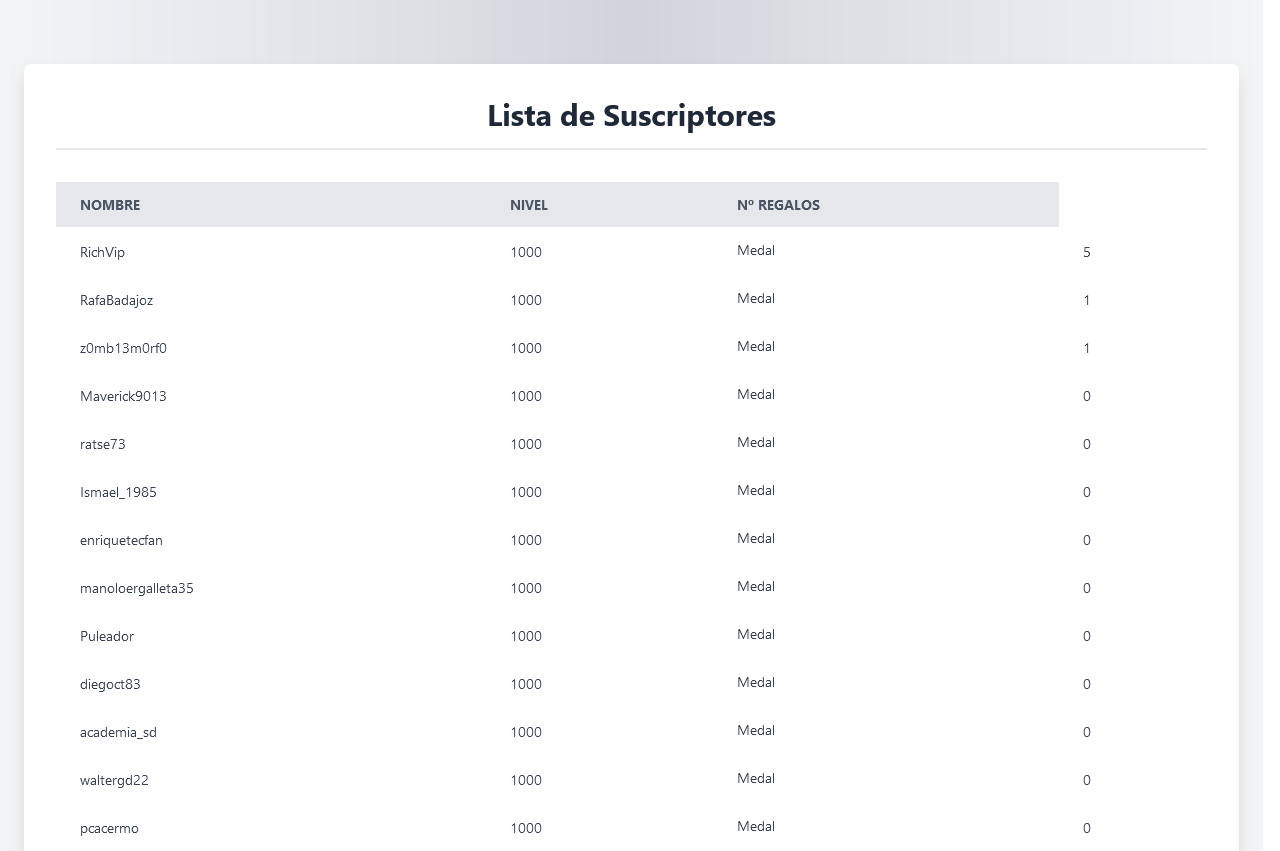
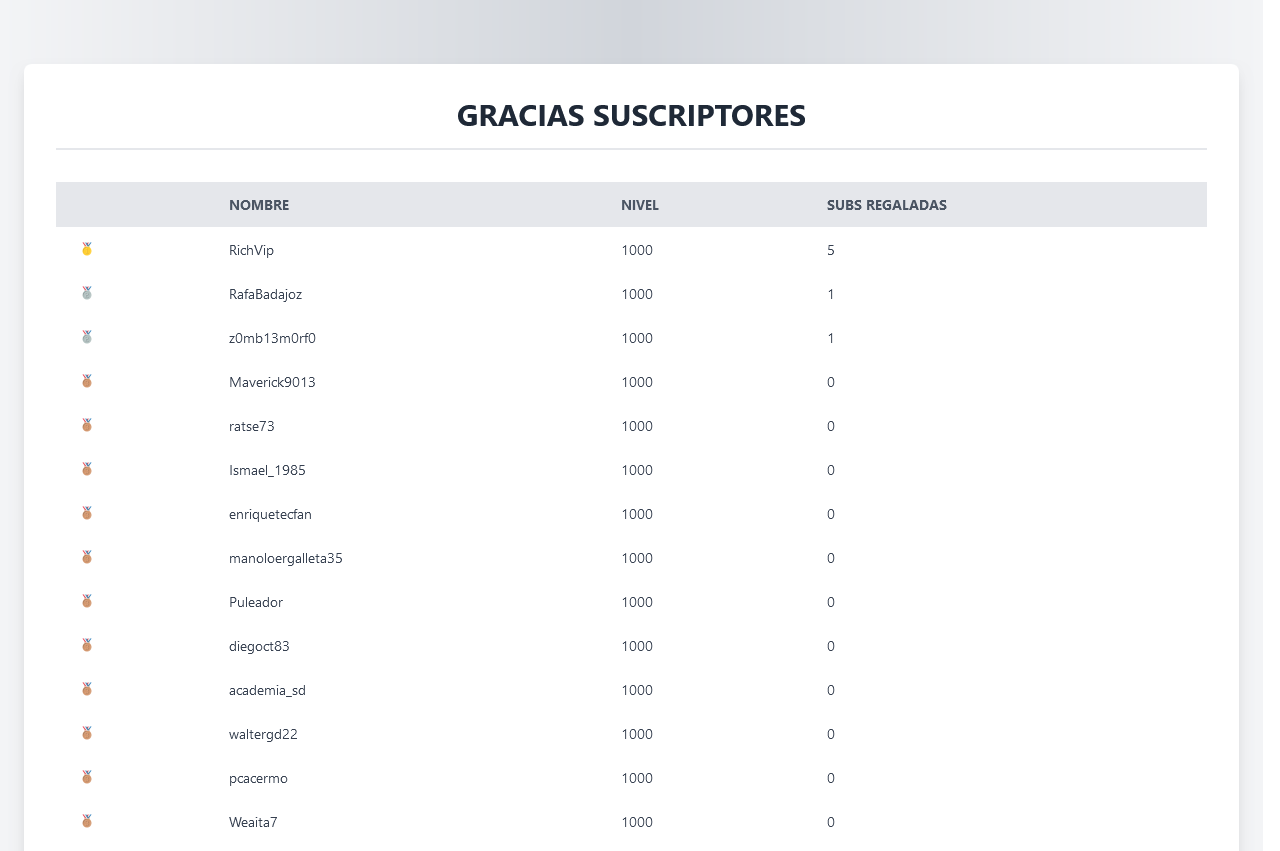
Medallas

diff --git a/index_con_placeholder.html b/index_con_placeholder.html
@@ -6,36 +6,39 @@
     <title>Lista de Suscriptores</title>
     <!-- Incluir Tailwind CSS desde el CDN -->
     <link href="https://cdn.jsdelivr.net/npm/tailwindcss@2.2.19/dist/tailwind.min.css" rel="stylesheet">
+    <!-- Incluir Iconify -->
+    <script src="https://code.iconify.design/2/2.1.2/iconify.min.js"></script>
 </head>
 <body class="bg-gradient-to-r from-gray-100 via-gray-300 to-gray-100 font-sans leading-normal tracking-normal">
     <div class="container mx-auto mt-10 p-6">
         <div class="bg-white p-8 rounded-lg shadow-lg">
-            <h1 class="text-3xl font-bold text-center text-gray-800 mb-8 border-b-2 pb-4">Lista de Suscriptores</h1>
+            <h1 class="text-3xl font-bold text-center text-gray-800 mb-8 border-b-2 pb-4">GRACIAS SUSCRIPTORES</h1>
             <table class="min-w-full bg-white">
                 <thead class="bg-gray-200 text-gray-600 uppercase text-sm leading-normal">
                     <tr>
+                        <th></th>
                         <th class="py-3 px-6 text-left">Nombre</th>
                         <th class="py-3 px-6 text-left">Nivel</th>
-                        <th class="py-3 px-6 text-left">Nº Regalos</th>
+                        <th class="py-3 px-6 text-left">Subs Regaladas</th>
                     </tr>
                 </thead>
                 <tbody id="nombres-lista" class="text-gray-700 text-sm">
-                    <tr><td class='py-3 px-6 text-left'>RichVip</td><td class='py-3 px-6 text-left'>1000</td><td class='py-3 px-6 text-left'><img src='gold_medal.png' alt='Medal' style='width:24px; height:24px;'></td><td class='py-3 px-6 text-left'>5</td></tr>
-<tr><td class='py-3 px-6 text-left'>RafaBadajoz</td><td class='py-3 px-6 text-left'>1000</td><td class='py-3 px-6 text-left'><img src='silver_medal.png' alt='Medal' style='width:24px; height:24px;'></td><td class='py-3 px-6 text-left'>1</td></tr>
-<tr><td class='py-3 px-6 text-left'>z0mb13m0rf0</td><td class='py-3 px-6 text-left'>1000</td><td class='py-3 px-6 text-left'><img src='silver_medal.png' alt='Medal' style='width:24px; height:24px;'></td><td class='py-3 px-6 text-left'>1</td></tr>
-<tr><td class='py-3 px-6 text-left'>Maverick9013</td><td class='py-3 px-6 text-left'>1000</td><td class='py-3 px-6 text-left'><img src='bronze_medal.png' alt='Medal' style='width:24px; height:24px;'></td><td class='py-3 px-6 text-left'>0</td></tr>
-<tr><td class='py-3 px-6 text-left'>ratse73</td><td class='py-3 px-6 text-left'>1000</td><td class='py-3 px-6 text-left'><img src='bronze_medal.png' alt='Medal' style='width:24px; height:24px;'></td><td class='py-3 px-6 text-left'>0</td></tr>
-<tr><td class='py-3 px-6 text-left'>Ismael_1985</td><td class='py-3 px-6 text-left'>1000</td><td class='py-3 px-6 text-left'><img src='bronze_medal.png' alt='Medal' style='width:24px; height:24px;'></td><td class='py-3 px-6 text-left'>0</td></tr>
-<tr><td class='py-3 px-6 text-left'>enriquetecfan</td><td class='py-3 px-6 text-left'>1000</td><td class='py-3 px-6 text-left'><img src='bronze_medal.png' alt='Medal' style='width:24px; height:24px;'></td><td class='py-3 px-6 text-left'>0</td></tr>
-<tr><td class='py-3 px-6 text-left'>manoloergalleta35</td><td class='py-3 px-6 text-left'>1000</td><td class='py-3 px-6 text-left'><img src='bronze_medal.png' alt='Medal' style='width:24px; height:24px;'></td><td class='py-3 px-6 text-left'>0</td></tr>
-<tr><td class='py-3 px-6 text-left'>Puleador</td><td class='py-3 px-6 text-left'>1000</td><td class='py-3 px-6 text-left'><img src='bronze_medal.png' alt='Medal' style='width:24px; height:24px;'></td><td class='py-3 px-6 text-left'>0</td></tr>
-<tr><td class='py-3 px-6 text-left'>diegoct83</td><td class='py-3 px-6 text-left'>1000</td><td class='py-3 px-6 text-left'><img src='bronze_medal.png' alt='Medal' style='width:24px; height:24px;'></td><td class='py-3 px-6 text-left'>0</td></tr>
-<tr><td class='py-3 px-6 text-left'>academia_sd</td><td class='py-3 px-6 text-left'>1000</td><td class='py-3 px-6 text-left'><img src='bronze_medal.png' alt='Medal' style='width:24px; height:24px;'></td><td class='py-3 px-6 text-left'>0</td></tr>
-<tr><td class='py-3 px-6 text-left'>waltergd22</td><td class='py-3 px-6 text-left'>1000</td><td class='py-3 px-6 text-left'><img src='bronze_medal.png' alt='Medal' style='width:24px; height:24px;'></td><td class='py-3 px-6 text-left'>0</td></tr>
-<tr><td class='py-3 px-6 text-left'>pcacermo</td><td class='py-3 px-6 text-left'>1000</td><td class='py-3 px-6 text-left'><img src='bronze_medal.png' alt='Medal' style='width:24px; height:24px;'></td><td class='py-3 px-6 text-left'>0</td></tr>
-<tr><td class='py-3 px-6 text-left'>Weaita7</td><td class='py-3 px-6 text-left'>1000</td><td class='py-3 px-6 text-left'><img src='bronze_medal.png' alt='Medal' style='width:24px; height:24px;'></td><td class='py-3 px-6 text-left'>0</td></tr>
-<tr><td class='py-3 px-6 text-left'>FegelShark</td><td class='py-3 px-6 text-left'>1000</td><td class='py-3 px-6 text-left'><img src='bronze_medal.png' alt='Medal' style='width:24px; height:24px;'></td><td class='py-3 px-6 text-left'>0</td></tr>
-<tr><td class='py-3 px-6 text-left'>patriciofernandezia</td><td class='py-3 px-6 text-left'>3000</td><td class='py-3 px-6 text-left'><img src='bronze_medal.png' alt='Medal' style='width:24px; height:24px;'></td><td class='py-3 px-6 text-left'>0</td></tr>
+                    <tr><td class='py-3 px-6 text-left'><span class="iconify" data-icon="emojione:1st-place-medal" style="color: #ffd700;"></span></td><td class='py-3 px-6 text-left'>RichVip</td><td class='py-3 px-6 text-left'>1000</td><td class='py-3 px-6 text-left'>5</td></tr>
+<tr><td class='py-3 px-6 text-left'><span class="iconify" data-icon="emojione:2nd-place-medal" style="color: #c0c0c0;"></span></td><td class='py-3 px-6 text-left'>RafaBadajoz</td><td class='py-3 px-6 text-left'>1000</td><td class='py-3 px-6 text-left'>1</td></tr>
+<tr><td class='py-3 px-6 text-left'><span class="iconify" data-icon="emojione:2nd-place-medal" style="color: #c0c0c0;"></span></td><td class='py-3 px-6 text-left'>z0mb13m0rf0</td><td class='py-3 px-6 text-left'>1000</td><td class='py-3 px-6 text-left'>1</td></tr>
+<tr><td class='py-3 px-6 text-left'><span class="iconify" data-icon="emojione:3rd-place-medal" style="color: #cd7f32;"></span></td><td class='py-3 px-6 text-left'>Maverick9013</td><td class='py-3 px-6 text-left'>1000</td><td class='py-3 px-6 text-left'>0</td></tr>
+<tr><td class='py-3 px-6 text-left'><span class="iconify" data-icon="emojione:3rd-place-medal" style="color: #cd7f32;"></span></td><td class='py-3 px-6 text-left'>ratse73</td><td class='py-3 px-6 text-left'>1000</td><td class='py-3 px-6 text-left'>0</td></tr>
+<tr><td class='py-3 px-6 text-left'><span class="iconify" data-icon="emojione:3rd-place-medal" style="color: #cd7f32;"></span></td><td class='py-3 px-6 text-left'>Ismael_1985</td><td class='py-3 px-6 text-left'>1000</td><td class='py-3 px-6 text-left'>0</td></tr>
+<tr><td class='py-3 px-6 text-left'><span class="iconify" data-icon="emojione:3rd-place-medal" style="color: #cd7f32;"></span></td><td class='py-3 px-6 text-left'>enriquetecfan</td><td class='py-3 px-6 text-left'>1000</td><td class='py-3 px-6 text-left'>0</td></tr>
+<tr><td class='py-3 px-6 text-left'><span class="iconify" data-icon="emojione:3rd-place-medal" style="color: #cd7f32;"></span></td><td class='py-3 px-6 text-left'>manoloergalleta35</td><td class='py-3 px-6 text-left'>1000</td><td class='py-3 px-6 text-left'>0</td></tr>
+<tr><td class='py-3 px-6 text-left'><span class="iconify" data-icon="emojione:3rd-place-medal" style="color: #cd7f32;"></span></td><td class='py-3 px-6 text-left'>Puleador</td><td class='py-3 px-6 text-left'>1000</td><td class='py-3 px-6 text-left'>0</td></tr>
+<tr><td class='py-3 px-6 text-left'><span class="iconify" data-icon="emojione:3rd-place-medal" style="color: #cd7f32;"></span></td><td class='py-3 px-6 text-left'>diegoct83</td><td class='py-3 px-6 text-left'>1000</td><td class='py-3 px-6 text-left'>0</td></tr>
+<tr><td class='py-3 px-6 text-left'><span class="iconify" data-icon="emojione:3rd-place-medal" style="color: #cd7f32;"></span></td><td class='py-3 px-6 text-left'>academia_sd</td><td class='py-3 px-6 text-left'>1000</td><td class='py-3 px-6 text-left'>0</td></tr>
+<tr><td class='py-3 px-6 text-left'><span class="iconify" data-icon="emojione:3rd-place-medal" style="color: #cd7f32;"></span></td><td class='py-3 px-6 text-left'>waltergd22</td><td class='py-3 px-6 text-left'>1000</td><td class='py-3 px-6 text-left'>0</td></tr>
+<tr><td class='py-3 px-6 text-left'><span class="iconify" data-icon="emojione:3rd-place-medal" style="color: #cd7f32;"></span></td><td class='py-3 px-6 text-left'>pcacermo</td><td class='py-3 px-6 text-left'>1000</td><td class='py-3 px-6 text-left'>0</td></tr>
+<tr><td class='py-3 px-6 text-left'><span class="iconify" data-icon="emojione:3rd-place-medal" style="color: #cd7f32;"></span></td><td class='py-3 px-6 text-left'>Weaita7</td><td class='py-3 px-6 text-left'>1000</td><td class='py-3 px-6 text-left'>0</td></tr>
+<tr><td class='py-3 px-6 text-left'><span class="iconify" data-icon="emojione:3rd-place-medal" style="color: #cd7f32;"></span></td><td class='py-3 px-6 text-left'>FegelShark</td><td class='py-3 px-6 text-left'>1000</td><td class='py-3 px-6 text-left'>0</td></tr>
+<tr><td class='py-3 px-6 text-left'><span class="iconify" data-icon="emojione:3rd-place-medal" style="color: #cd7f32;"></span></td><td class='py-3 px-6 text-left'>patriciofernandezia</td><td class='py-3 px-6 text-left'>3000</td><td class='py-3 px-6 text-left'>0</td></tr>
                 </tbody>
             </table>
         </div>

diff --git a/template.html b/template.html
@@ -6,17 +6,20 @@
     <title>Lista de Suscriptores</title>
     <!-- Incluir Tailwind CSS desde el CDN -->
     <link href="https://cdn.jsdelivr.net/npm/tailwindcss@2.2.19/dist/tailwind.min.css" rel="stylesheet">
+    <!-- Incluir Iconify -->
+    <script src="https://code.iconify.design/2/2.1.2/iconify.min.js"></script>
 </head>
 <body class="bg-gradient-to-r from-gray-100 via-gray-300 to-gray-100 font-sans leading-normal tracking-normal">
     <div class="container mx-auto mt-10 p-6">
         <div class="bg-white p-8 rounded-lg shadow-lg">
-            <h1 class="text-3xl font-bold text-center text-gray-800 mb-8 border-b-2 pb-4">Lista de Suscriptores</h1>
+            <h1 class="text-3xl font-bold text-center text-gray-800 mb-8 border-b-2 pb-4">GRACIAS SUSCRIPTORES</h1>
             <table class="min-w-full bg-white">
                 <thead class="bg-gray-200 text-gray-600 uppercase text-sm leading-normal">
                     <tr>
+                        <th></th>
                         <th class="py-3 px-6 text-left">Nombre</th>
                         <th class="py-3 px-6 text-left">Nivel</th>
-                        <th class="py-3 px-6 text-left">Nº Regalos</th>
+                        <th class="py-3 px-6 text-left">Subs Regaladas</th>
                     </tr>
                 </thead>
                 <tbody id="nombres-lista" class="text-gray-700 text-sm">

diff --git a/main.py b/main.py
@@ -136,7 +136,7 @@ if access_token:
             with open(template_html_filename, 'r', encoding='utf-8') as file:
                 html_template = file.read()
 
-        # Generar el contenido de las filas de la tabla
+            # Generar el contenido de las filas de la tabla
             for subscriber in data:
                 # Contar cuántas veces el nombre del suscriptor aparece como gifter_name
                 gift_count = sum(1 for other_subscriber in data if other_subscriber.get('gifter_name') == subscriber['user_name'])
@@ -146,21 +146,21 @@ if access_token:
             # Ordenar los suscriptores por 'gift_count' de mayor a menor
             sorted_data = sorted(data, key=lambda x: x['gift_count'], reverse=True)
 
-            # Asignar medallas
+            # Asignar medallas usando iconos de Iconify
             if sorted_data:
-                sorted_data[0]['medal'] = 'gold_medal.png'  # Medalla de oro al que más regalos ha hecho
+                sorted_data[0]['medal'] = '<span class="iconify" data-icon="emojione:1st-place-medal" style="color: #ffd700;"></span>'  # Medalla de oro
                 for i in range(1, len(sorted_data)):
                     if sorted_data[i]['gift_count'] > 0:
-                        sorted_data[i]['medal'] = 'silver_medal.png'  # Medalla de plata para los que han hecho regalos, pero no son los mejores
+                        sorted_data[i]['medal'] = '<span class="iconify" data-icon="emojione:2nd-place-medal" style="color: #c0c0c0;"></span>'  # Medalla de plata
                     else:
-                        sorted_data[i]['medal'] = 'bronze_medal.png'  # Medalla de bronce para los que no han hecho regalos
+                        sorted_data[i]['medal'] = '<span class="iconify" data-icon="emojione:3rd-place-medal" style="color: #cd7f32;"></span>'  # Medalla de bronce
 
-            # Generar las filas HTML
+            # Generar las filas HTML con la medalla como primera columna
             rows_html = "\n".join([
                 f"<tr>"
+                f"<td class='py-3 px-6 text-left'>{subscriber['medal']}</td>"
                 f"<td class='py-3 px-6 text-left'>{subscriber['user_name']}</td>"
                 f"<td class='py-3 px-6 text-left'>{subscriber['tier']}</td>"
-                f"<td class='py-3 px-6 text-left'><img src='{subscriber['medal']}' alt='Medal' style='width:24px; height:24px;'></td>"
                 f"<td class='py-3 px-6 text-left'>{subscriber['gift_count']}</td>"
                 f"</tr>"
                 for subscriber in sorted_data
